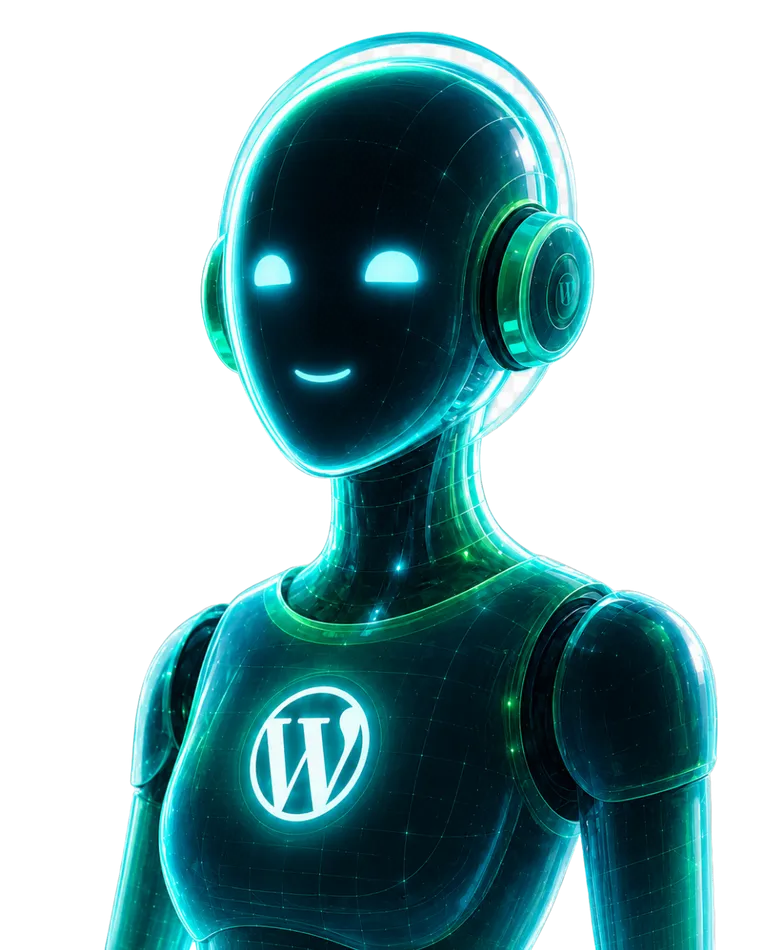
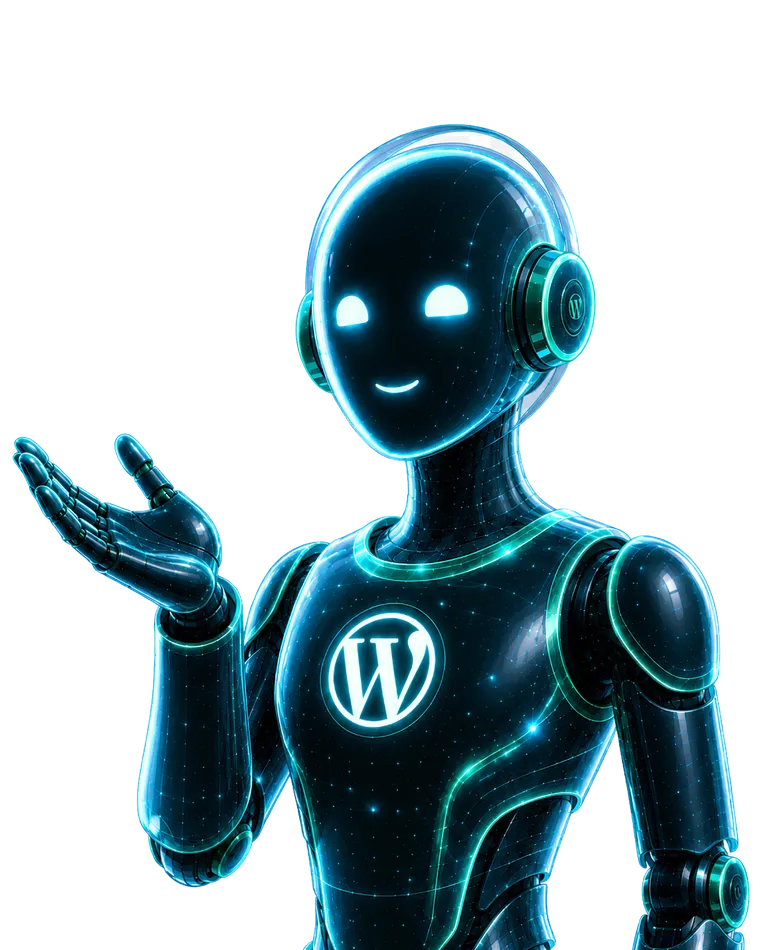
feat(homepage): new robot image, premium ribbon & demo step redesign
Swap hero robot for new cutout with pointing hand, remove all emoji
icons from the feature ribbon and demo section. Ribbon now shows
title + descriptive snippet per item with glowing dividers. Demo
proof points replaced with numbered 1-2-3 steps connected by a
subtle progress line.

diff --git a/assets/css/site.css b/assets/css/site.css
@@ -588,52 +588,87 @@ body.sitestaffr-landing-page .hero__visual > * {
   max-width: 720px;
   margin: 0 auto;
 }
-.lead-demo__points {
-  list-style: none;
+.lead-demo__steps {
   margin: 48px auto 0;
-  max-width: 900px;
+  max-width: 940px;
   display: grid;
   grid-template-columns: repeat(3, 1fr);
-  gap: 24px;
+  gap: 32px;
+  position: relative;
 }
-.lead-demo__point {
+.lead-demo__steps::before {
+  content: '';
+  position: absolute;
+  top: 22px;
+  left: calc(16.66% + 22px);
+  right: calc(16.66% + 22px);
+  height: 2px;
+  background: linear-gradient(90deg, var(--teal-light), var(--teal-pale) 50%, var(--teal-light));
+  opacity: 0.35;
+}
+.lead-demo__step {
   display: flex;
   flex-direction: column;
   align-items: center;
   text-align: center;
-  gap: 12px;
+  gap: 14px;
 }
-.lead-demo__point-icon {
-  font-size: 1.6rem;
-  line-height: 1;
-  width: 58px;
-  height: 58px;
+.lead-demo__step-num {
+  width: 44px;
+  height: 44px;
   display: grid;
   place-items: center;
-  background: var(--teal-pale);
   border-radius: 50%;
-  box-shadow: inset 0 0 0 1px rgba(0,131,143,0.12);
+  border: 2px solid var(--teal-light);
+  color: var(--teal-deep);
+  font-family: var(--font-display);
+  font-weight: 700;
+  font-size: 1.15rem;
+  line-height: 1;
+  background: #fff;
+  position: relative;
+  z-index: 1;
+  box-shadow: 0 0 0 6px var(--warm-white);
 }
-.lead-demo__point-text {
-  font-size: 0.98rem;
-  font-weight: 500;
-  color: var(--text-primary);
-  line-height: 1.45;
-  max-width: 230px;
+.lead-demo__step-body {
+  display: flex;
+  flex-direction: column;
+  gap: 5px;
+}
+.lead-demo__step-title {
+  font-weight: 700;
+  font-size: 1.02rem;
+  color: var(--teal-deep);
+  line-height: 1.3;
+}
+.lead-demo__step-text {
+  font-size: 0.92rem;
+  font-weight: 400;
+  color: var(--text-secondary);
+  line-height: 1.55;
+  max-width: 240px;
+  margin: 0 auto;
 }
 @media (max-width: 760px) {
-  .lead-demo__points {
+  .lead-demo__steps {
     grid-template-columns: 1fr;
-    gap: 16px;
+    gap: 24px;
     max-width: 380px;
   }
-  .lead-demo__point {
+  .lead-demo__steps::before { display: none; }
+  .lead-demo__step {
     flex-direction: row;
     text-align: left;
-    gap: 14px;
+    gap: 16px;
   }
-  .lead-demo__point-icon { flex-shrink: 0; width: 48px; height: 48px; font-size: 1.3rem; }
-  .lead-demo__point-text { max-width: none; }
+  .lead-demo__step-num {
+    flex-shrink: 0;
+    width: 40px;
+    height: 40px;
+    font-size: 1rem;
+    box-shadow: none;
+  }
+  .lead-demo__step-text { max-width: none; margin: 0; }
 }
 
 /* ========== HOMEPAGE: PAIN SECTION ========== */
@@ -6043,12 +6078,14 @@ body.sitestaffr-landing-page .hero__content { max-width: 560px; }
   position: relative;
   overflow: hidden;
   background: linear-gradient(118deg, #002e2f 0%, #00838F 50%, #00463a 100%);
+  border-top: 1px solid rgba(31, 182, 204, 0.22);
+  border-bottom: 1px solid rgba(31, 182, 204, 0.10);
 }
 .ribbon::before {
   content: '';
   position: absolute;
   inset: 0;
-  background: radial-gradient(70% 140% at 50% -10%, rgba(31,182,204,0.30), transparent 65%);
+  background: radial-gradient(70% 140% at 50% -10%, rgba(31,182,204,0.28), transparent 65%);
   pointer-events: none;
 }
 .ribbon__list {
@@ -6056,47 +6093,52 @@ body.sitestaffr-landing-page .hero__content { max-width: 560px; }
   z-index: 1;
   list-style: none;
   margin: 0;
-  padding: 24px 0;
+  padding: 34px 0;
   display: flex;
-  align-items: center;
+  align-items: stretch;
   justify-content: space-between;
-  gap: 8px;
+  gap: 0;
 }
 .ribbon__item {
   position: relative;
   flex: 1;
   display: flex;
+  flex-direction: column;
   align-items: center;
-  justify-content: center;
-  gap: 10px;
-  color: var(--text-on-dark);
-  font-weight: 700;
-  font-size: 1.02rem;
-  letter-spacing: 0.005em;
+  gap: 5px;
+  padding: 0 16px;
   text-align: center;
 }
 .ribbon__item:not(:last-child)::after {
   content: '';
   position: absolute;
-  right: -4px;
+  right: 0;
   top: 50%;
   transform: translateY(-50%);
   width: 1px;
-  height: 28px;
-  background: rgba(240, 250, 250, 0.18);
+  height: 36px;
+  background: linear-gradient(180deg, transparent, rgba(31,182,204,0.30) 50%, transparent);
 }
-.ribbon__icon {
-  font-size: 1.35rem;
-  line-height: 1;
-  filter: drop-shadow(0 2px 6px rgba(0, 0, 0, 0.25));
+.ribbon__title {
+  color: #fff;
+  font-weight: 700;
+  font-size: 1.02rem;
+  letter-spacing: 0.01em;
+  line-height: 1.25;
+}
+.ribbon__desc {
+  color: rgba(224, 247, 250, 0.60);
+  font-size: 0.82rem;
+  font-weight: 400;
+  line-height: 1.45;
 }
 @media (max-width: 880px) {
-  .ribbon__list { flex-wrap: wrap; justify-content: center; gap: 16px 28px; }
-  .ribbon__item { flex: 0 0 auto; }
+  .ribbon__list { flex-wrap: wrap; justify-content: center; gap: 22px 0; padding: 28px 0; }
+  .ribbon__item { flex: 0 0 33.33%; padding: 0 12px; }
   .ribbon__item:not(:last-child)::after { display: none; }
 }
 @media (max-width: 480px) {
-  .ribbon__item { flex: 1 0 40%; font-size: 0.95rem; }
+  .ribbon__item { flex: 0 0 50%; }
 }
 
 /* ========== SECTION 3: VOICE & TEXT ========== */

diff --git a/page-landing.php b/page-landing.php
@@ -267,11 +267,26 @@ get_template_part( 'template-parts/site-nav', null, array(
 <section class="ribbon">
   <div class="container">
     <ul class="ribbon__list">
-      <li class="ribbon__item"><span class="ribbon__icon" aria-hidden="true">🎙</span> Voice answers</li>
-      <li class="ribbon__item"><span class="ribbon__icon" aria-hidden="true">💬</span> Text chat</li>
-      <li class="ribbon__item"><span class="ribbon__icon" aria-hidden="true">📥</span> Lead capture</li>
-      <li class="ribbon__item"><span class="ribbon__icon" aria-hidden="true">✉</span> Email recaps</li>
-      <li class="ribbon__item"><span class="ribbon__icon" aria-hidden="true">✍</span> Blog writing</li>
+      <li class="ribbon__item">
+        <span class="ribbon__title">Voice Answers</span>
+        <span class="ribbon__desc">Speaks to visitors naturally, 24/7</span>
+      </li>
+      <li class="ribbon__item">
+        <span class="ribbon__title">Text Chat</span>
+        <span class="ribbon__desc">Responds instantly on every page</span>
+      </li>
+      <li class="ribbon__item">
+        <span class="ribbon__title">Lead Capture</span>
+        <span class="ribbon__desc">Collects name, number &amp; intent</span>
+      </li>
+      <li class="ribbon__item">
+        <span class="ribbon__title">Email Recaps</span>
+        <span class="ribbon__desc">Sends you the details to follow up</span>
+      </li>
+      <li class="ribbon__item">
+        <span class="ribbon__title">Blog Writing</span>
+        <span class="ribbon__desc">Publishes SEO posts on autopilot</span>
+      </li>
     </ul>
   </div>
 </section>
@@ -344,11 +359,29 @@ get_template_part( 'template-parts/site-nav', null, array(
       );
       ?>
     </div>
-    <ul class="lead-demo__points reveal">
-      <li class="lead-demo__point"><span class="lead-demo__point-icon" aria-hidden="true">🗣</span><span class="lead-demo__point-text">Answers questions naturally, by voice or text</span></li>
-      <li class="lead-demo__point"><span class="lead-demo__point-icon" aria-hidden="true">📇</span><span class="lead-demo__point-text">Captures the name, number &amp; what they need</span></li>
-      <li class="lead-demo__point"><span class="lead-demo__point-icon" aria-hidden="true">✉</span><span class="lead-demo__point-text">Emails you a recap to follow up fast</span></li>
-    </ul>
+    <div class="lead-demo__steps reveal">
+      <div class="lead-demo__step">
+        <span class="lead-demo__step-num" aria-hidden="true">1</span>
+        <div class="lead-demo__step-body">
+          <span class="lead-demo__step-title">Answers Naturally</span>
+          <span class="lead-demo__step-text">Responds to questions by voice or text, just like a real team member</span>
+        </div>
+      </div>
+      <div class="lead-demo__step">
+        <span class="lead-demo__step-num" aria-hidden="true">2</span>
+        <div class="lead-demo__step-body">
+          <span class="lead-demo__step-title">Captures the Lead</span>
+          <span class="lead-demo__step-text">Collects the visitor's name, number, and what they need</span>
+        </div>
+      </div>
+      <div class="lead-demo__step">
+        <span class="lead-demo__step-num" aria-hidden="true">3</span>
+        <div class="lead-demo__step-body">
+          <span class="lead-demo__step-title">Sends You a Recap</span>
+          <span class="lead-demo__step-text">Emails you the full details so you can follow up fast</span>
+        </div>
+      </div>
+    </div>
   </div>
 </section>
 
